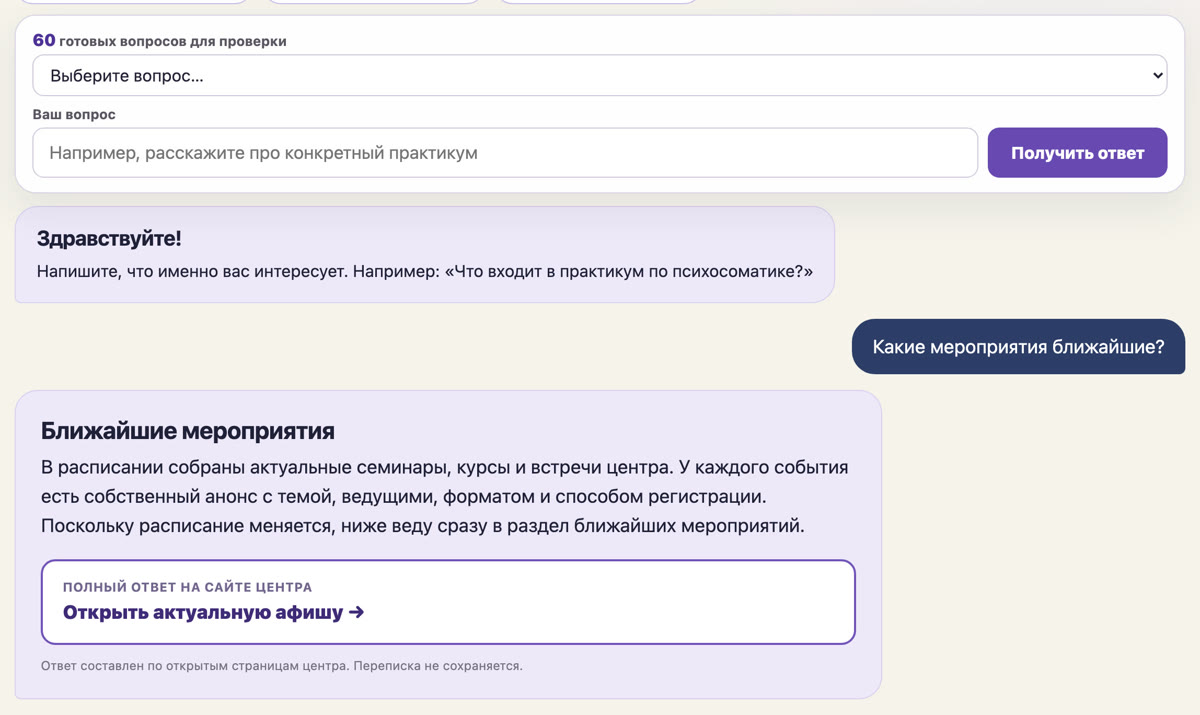
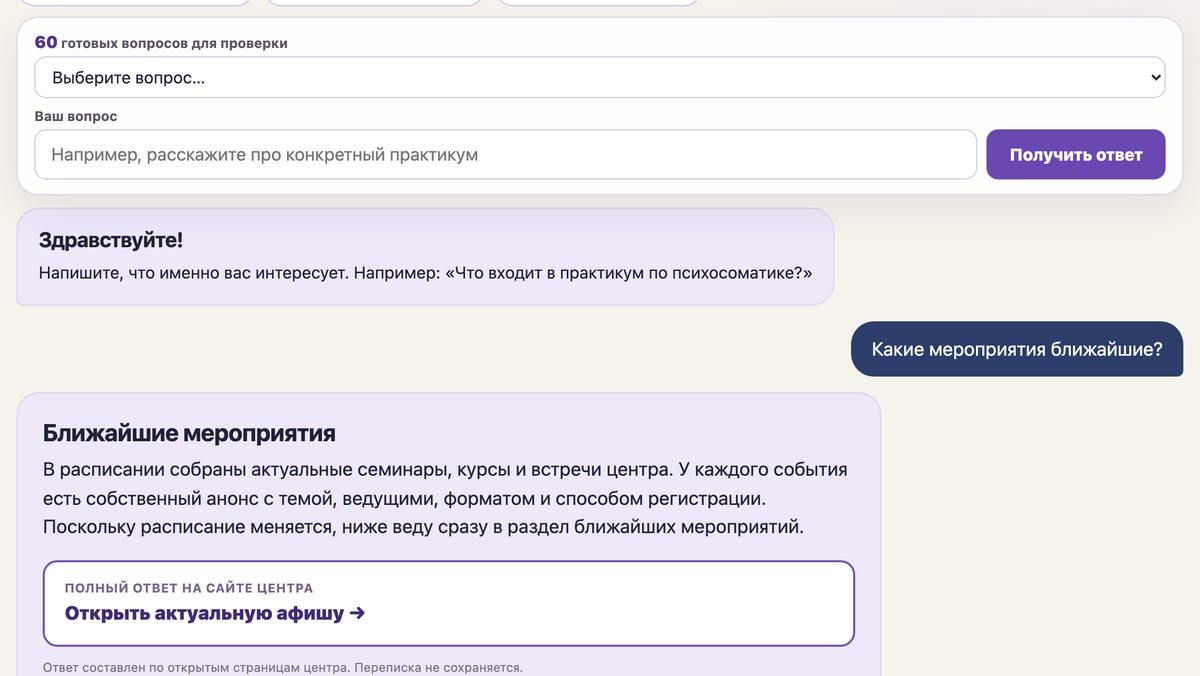
All five platforms, checked without signing in, and a sharper card still
Проза.ру is at /avtor/gostovs, and the page itself says «Сергей Гостов»,
19 works, 4223 readers, 11 reviews — the same three numbers as his
dashboard, visible to anyone. So the figure on the page is no longer his
word for it; it is checkable in one click, and the link is now there.

I had tested gostovs earlier and got 000. A timeout, and I read it as a
verdict. Six other guesses returned 200 with an identical 7254-byte "not
found" page, so status codes said six pages existed and the real one
looked dead. Only content answered anything: «Гостов» appears on exactly
one of them.

Дзен and ВКонтакте serve nothing to curl — Дзен redirects to Yandex
passport, VK renders in script — so both were opened in a browser without
signing in. The channel is there with the stories readable, and the VK
page shows 292 subscribers. Both are linked; neither number is on the
page, and Дзен's 14,900 impressions stay off for the reason already
written down.

The card still for Psy AI Admin is now the one Глаза shot: 1200×676
against my 1200×715. The card is 366×206, so mine lost 5.5% of its height
to the cover crop and theirs loses 0.1%. Same scene, same plan, last
frame of the loop.

diff --git a/rasskazy/index.html b/rasskazy/index.html
@@ -58,7 +58,7 @@
         <h1>Рассказы</h1>
         <p>Сергей Гостов · 23 текста · 3 сборника</p>
         <p class="pub">Рассказы не раз печатались в абаканском журнале «ЮРТА» — на русском и на хакасском языке</p>
-          <p class="ploshchadki">Выкладываю тексты и здесь: <a href="https://author.today/u/gst" target="_blank" rel="noopener me">Author.Today</a>, <a href="http://samlib.ru/editors/g/gostow/" target="_blank" rel="noopener me">Самиздат</a>, <a href="https://vk.ru/aka_gst_gr" target="_blank" rel="noopener me">ВКонтакте</a></p>
+          <p class="ploshchadki">Выкладываю тексты и здесь: <a href="https://proza.ru/avtor/gostovs" target="_blank" rel="noopener me">Проза.ру</a>, <a href="https://author.today/u/gst" target="_blank" rel="noopener me">Author.Today</a>, <a href="http://samlib.ru/editors/g/gostow/" target="_blank" rel="noopener me">Самиздат</a>, <a href="https://vk.ru/aka_gst_gr" target="_blank" rel="noopener me">ВКонтакте</a>, <a href="https://dzen.ru/id/5d18cffda710a500adce5e45" target="_blank" rel="noopener me">Дзен</a></p>
           <p class="ploshchadki ploshchadki--chisla">На Прозе.ру — 19 рассказов, 4223 читателя и 11 рецензий, на сентябрь 2026.</p>
       </div>
       <div class="bgrid">

diff --git a/index.html b/index.html
@@ -295,8 +295,8 @@
               <dd>сценариев</dd>
             </div>
           </dl>
-          <figure class="shot"><img src="/assets/shots/psy-admin.jpg?v=f8e4ac1d" alt="Форма помощника: выбор из 60 готовых вопросов, поле для своего, и ответ со ссылкой на страницу центра"
-                width="1200" height="715" decoding="async" loading="lazy" fetchpriority="low"><video class="gclip" muted loop playsinline preload="none" tabindex="-1"
+          <figure class="shot"><img src="/assets/shots/psy-admin.jpg?v=87cf500e" alt="Форма помощника: выбор из 60 готовых вопросов, поле для своего, и ответ со ссылкой на страницу центра"
+                width="1200" height="676" decoding="async" loading="lazy" fetchpriority="low"><video class="gclip" muted loop playsinline preload="none" tabindex="-1"
                   data-src="/assets/clips/clip-psy-admin.mp4?v=dec3d807"></video></figure>
           <div class="card-head">
             <p class="kicker">Продукт · демо</p>
